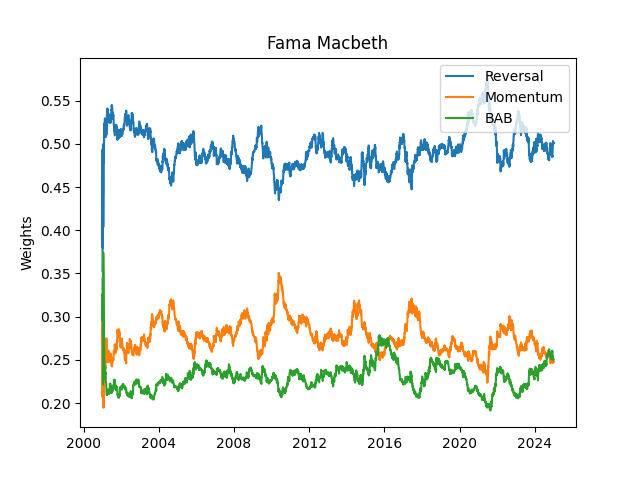
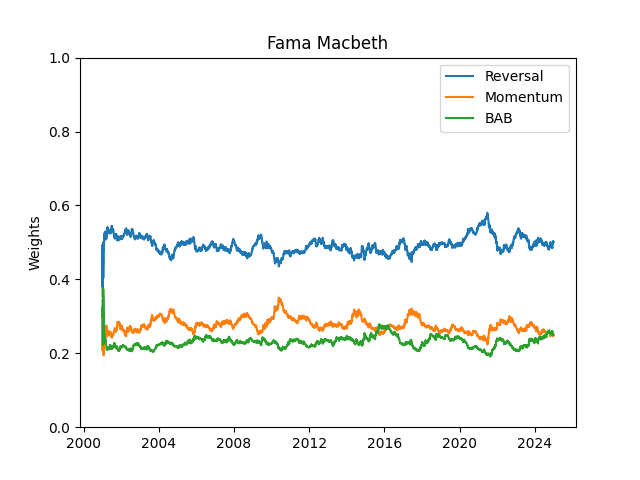
Updated charts. Added bayesian method.

diff --git a/experiments/bayesian.py b/experiments/bayesian.py
@@ -1,0 +1,88 @@
+import polars as pl
+import numpy as np
+from utils import save_lineplot, save_stackplot
+from pathlib import Path
+
+signal_names = ['reversal', 'momentum', 'bab']
+WINDOW = 252
+K = 3
+
+# Prior hyperparameters
+kappa = 1.0 / WINDOW
+mu_0 = np.ones(K) / K
+Lambda_0 = kappa * np.eye(K)
+
+# Load returns (quantile)
+returns_list = []
+for signal_name in signal_names:
+    returns = pl.read_parquet(f"data/quantile_returns/{signal_name}.parquet")
+    returns = returns.with_columns(pl.lit(signal_name).alias('name'))
+    returns_list.append(returns)
+
+returns: pl.DataFrame = pl.concat(returns_list)
+returns = (
+    returns
+    .pivot(index='date', on='name', values='return')
+    .drop_nulls()
+    .sort('date')
+)
+
+# Compute signal weights using Bayesian linear regression on a rolling window
+dates = returns['date'].to_list()
+R_full = returns.select(signal_names).to_numpy()
+
+rows = []
+for t in range(WINDOW, len(R_full)):
+    X = R_full[t - WINDOW : t]
+    y = X.sum(axis=1)
+
+    # Posterior parameters (Normal-Inverse-Gamma conjugate update)
+    XtX = X.T @ X
+    Xty = X.T @ y
+    Lambda_n = Lambda_0 + XtX
+    mu_n = np.linalg.solve(Lambda_n, Lambda_0 @ mu_0 + Xty)
+
+    # Normalize
+    weights = mu_n / mu_n.sum()
+
+    # Softmax
+    exp_w = np.exp(weights)
+    weights = exp_w / exp_w.sum()
+
+    rows.append(
+        {'date': dates[t]}
+        |
+        {f'w_{name}': weights[i] for i, name in enumerate(signal_names)}
+    )
+
+# Combine and smooth weights
+signal_weights = pl.DataFrame(rows)
+signal_weights = (
+    signal_weights
+    .sort('date')
+    .with_columns(
+        pl.exclude('date').ewm_mean(span=WINDOW)
+    )
+)
+
+# Save results
+folder_path = Path("results/bayesian")
+folder_path.mkdir(exist_ok=True, parents=True)
+
+save_stackplot(
+    signal_weights['date'],
+    signal_weights['w_reversal'],
+    signal_weights['w_momentum'],
+    signal_weights['w_bab'],
+    labels=['Reversal', 'Momentum', 'BAB'],
+    file_path=folder_path / "stackplot.png",
+    title="Bayesian",
+)
+
+save_lineplot(
+    weights=signal_weights,
+    columns=['w_reversal', 'w_momentum', 'w_bab'],
+    labels=['Reversal', 'Momentum', 'BAB'],
+    file_path=folder_path / "lineplot.png",
+    title="Bayesian",
+)

diff --git a/experiments/utils.py b/experiments/utils.py
@@ -16,6 +16,7 @@ def save_lineplot(weights: pl.DataFrame, columns: list[str], labels: list[str], 
     for column, label in zip(columns, labels):
         sns.lineplot(weights, x='date', y=column, label=label)
     plt.title(title)
+    plt.ylim(0, 1)
     plt.ylabel("Weights")
     plt.xlabel(None)
     plt.legend(loc="upper right")
